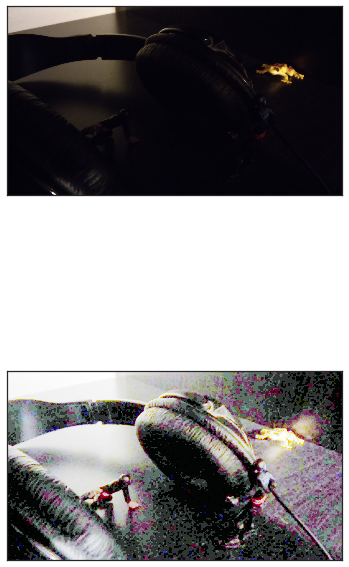
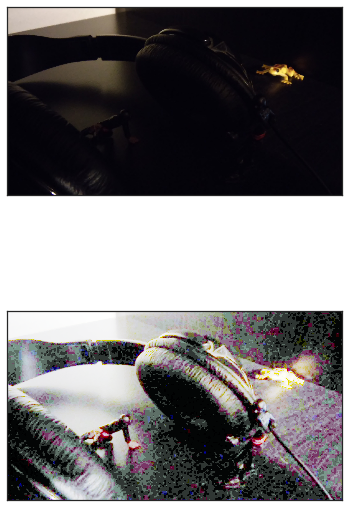
Make equlization images bigger

diff --git a/index.html b/index.html
@@ -478,8 +478,8 @@
 						</div>
 					</section>
 					<section>
-						<div id="equalized-image">
-						<img src='img/equalized_image.png'>
+						<div>
+						<img src='img/equalized_image.png' id="equalized-image">
 						</div>
 <div id='equalization-code'>
 <pre><code class='python'>
@@ -521,8 +521,8 @@ COLOR!
 
 </code></pre>
 </div>
-						<div id="equalized-image">
-						<img src="img/color_equalization.png">
+						<div>
+						<img src="img/color_equalization.png" id="equalized-image">
 						</div>
 					</section>
 				</section>

diff --git a/dsp.css b/dsp.css
@@ -134,7 +134,7 @@ body {
 
 #equalized-image {
     float:left;
-    width: 35%
+    width: 33%
 }
 
 #ycbcr-code {
